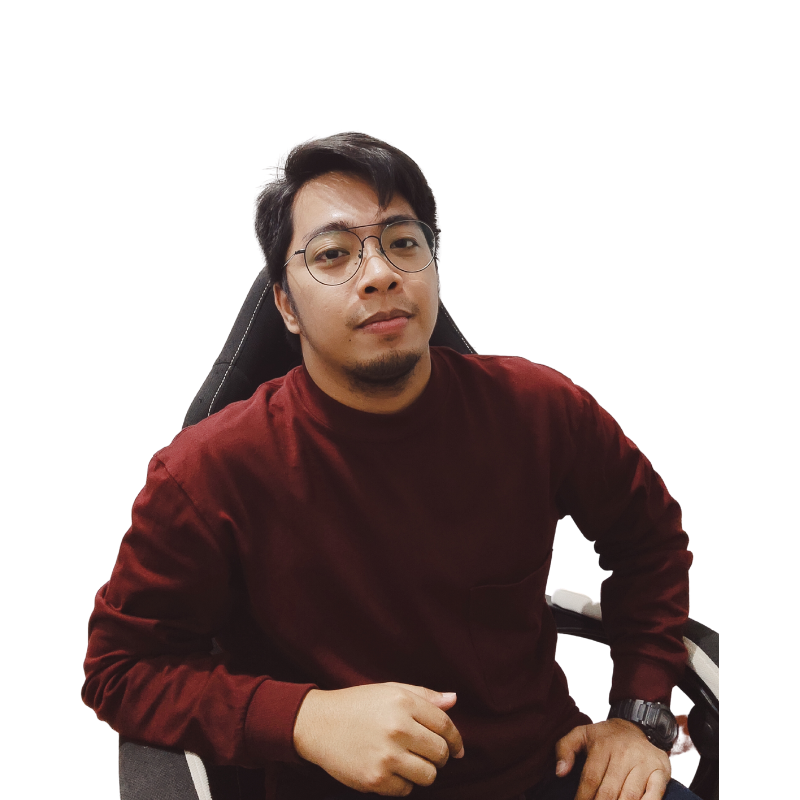
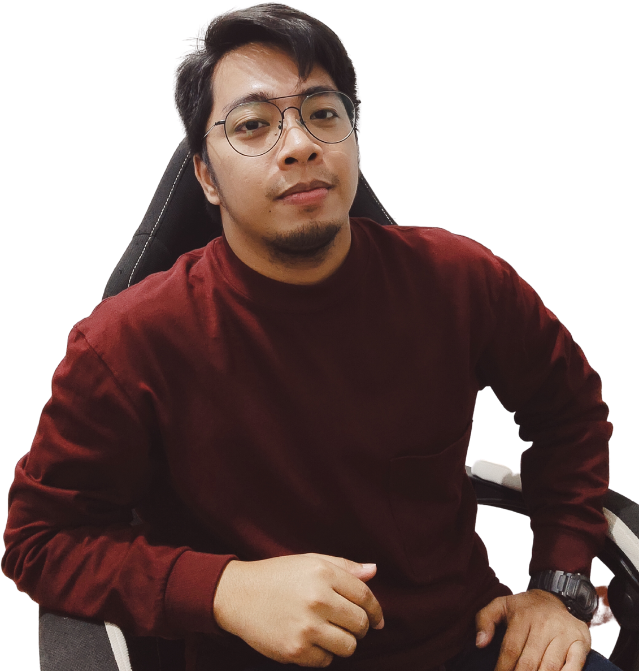
added informations

diff --git a/index.html b/index.html
@@ -11,9 +11,10 @@
 </head>
 <body>
 
+  <!-- NAVBAR -->
   <nav class="navbar navbar-expand-md">
     <div class="container-fluid nav-div">
-      <a class="navbar-brand" href="#">RALPH</a>
+      <a class="navbar-brand" href="#"><img src="assets/logo1.png"></a>
       <button class="navbar-toggler" type="button" data-bs-toggle="collapse" data-bs-target="#navbarNavDropdown" aria-controls="navbarNavDropdown" aria-expanded="false" aria-label="Toggle navigation">
         <span class="navbar-toggler-icon"></span>
       </button>
@@ -39,24 +40,86 @@
     </div>
   </nav>
 
-  <div class="container-fluid hero-div "> 
-
+  <!-- HERO -->
+  <div class="container-fluid hero-div my-0"> 
     <div class="row hero-row">
 
-      <div class="col col-hero col-12 col-sm-12 col-md-12 col-lg-6 picture-div">
+      <div class="col col-hero col-12 col-sm-12 col-md-12 col-lg-5 hero-picture-div">
+        <img src="assets/picture2.png" alt="picture1" class="img img-fluid">
+      </div>
+
+      <div class="col col-hero col-12 col-sm-12 col-md-12 col-lg-6 hero-text-div">
+        <h1>Hi, I'm Ralph!</h1>
+        <h1>Your Web Developer</h1>
+        <button>Message Me</button>
+
+      </div>
+    </div>
+  </div>
+
+  <!-- ABOUT -->
+  <div class="container-fluid about-div pt-5"> 
+    <div class="row about-row">
+      <div class="col col-hero col-12 col-sm-12 col-md-12 col-lg-5 about-text-div">
+        <h1>ABOUT ME</h1> <br>
+        <h2>Lorem ipsum dolor sit amet consectetur adipisicing elit. Eligendi consequuntur ex enim magnam similique ad totam facere quisquam rerum ullam vel
+          </h2>
+          <h2>Lorem ipsum dolor sit amet consectetur adipisicing elit. Libero, magni nisi necessitatibus quisquam id </h2>
+
+            
+      </div>
+
+      <div class="col col-hero col-12 col-sm-12 col-md-12 col-lg-6 about-picture-div px-0">
         <img src="assets/picture1.png" alt="picture1" class="img img-fluid">
       </div>
 
-      <div class="col col-hero col-12 col-sm-12 col-md-12 col-lg-6 text-div">
-        <h1>Hi I'm Ralph!</h1>
-        <h1>Your Web Developer</h1>
-        <button>Hire Me!</button>
+    </div>
+  </div>
 
+  <!-- PROJECT -->
+  <div class="container-fluid project-div py-5"> 
+    <h1>PROJECTS</h1>
+
+    <div class="row project-row">
+
+      <div class="col col-12 col-sm-12 col-md-6 col-lg-4 col-xl-3 project-col-div">
+        <div class="card project-card" >
+          <img src="assets/smoothday.jpg" class="card-img-top" alt="...">
+          <div class="card-body">
+            <h5 class="card-title">Smooth Day</h5>
+            <p class="card-text">A website for an auto detailing services. </p>
+            <a href="#" class="btn btn-primary">See Project</a>
+          </div>
+        </div>
       </div>
-  </div>
 
-    
-  </div>
+      <div class="col col-12 col-sm-12 col-md-6 col-lg-4 col-xl-3 project-col-div">
+        <div class="card project-card" >
+          <img src="assets/farhotel.jpg" class="card-img-top" alt="...">
+          <div class="card-body">
+            <h5 class="card-title">FAR Hotel</h5>
+            <p class="card-text">a website for hotel service. this website lets you book your hotel accomodation.</p>
+            <a href="#" class="btn btn-primary">See Project</a>
+          </div>
+        </div>
+      </div>
+
+      <div class="col col-12 col-sm-12 col-md-6 col-lg-4 col-xl-3 project-col-div">
+        <div class="card project-card" >
+          <img src="assets/jarliner.jpg" class="card-img-top" alt="...">
+          <div class="card-body">
+            <h5 class="card-title">JAR Liner</h5>
+            <p class="card-text">a website for bus ticketing service, this website lets you book your next disire travel online</p>
+            <a href="#" class="btn btn-primary">See Project</a>
+          </div>
+        </div>
+      </div>
+   
+     
+      
+    </div>
+  </div>  
+
 
 
 

diff --git a/styles.css b/styles.css
@@ -1,4 +1,5 @@
 @import url('https://fonts.googleapis.com/css2?family=Acme&family=Fira+Sans:wght@300;400;700&display=swap');
+
 *{
   box-sizing: border-box;
   padding: 0;
@@ -6,12 +7,14 @@
   font-family: 'Acme', sans-serif;
   font-family: 'Fira Sans', sans-serif;
   /* border: 1px solid red; */
-  background-color: var(--color1);
+  /* background-color: var(--color1); */
   color: var(--white);
 }
 
+
 :root {
-  --color1:#27374D;
+  /* --color1:#27374D; */
+  --color1:#152844;
   --color2: #526D82;
   --color3: #9DB2BF;
   --color4: #DDE6ED;
@@ -19,6 +22,12 @@
 }
 
 /* NAVBAR SECTION */
+.navbar {
+  background-color: var(--color1);
+  position: sticky;
+  top: 0;
+  z-index: 99;
+}
 
 .navbar-collapse {
   justify-content: right;
@@ -37,37 +46,41 @@
   color: var(--white);
 }
 
+.nav-div a img {
+  height: 40px;
+  padding-left: 20px;
+}
+
+.nav-item a {
+  font-size: 20px;
+}
 
 
 
 /* HERO SECTION */
 .hero-div {
   text-align: center;
-  margin-bottom: 20px;
-  padding: 3rem 1rem;
+  background-color: var(--color1);
+  height: 95vh;
 }
 
-.picture-div img {
-  height: 100%;
-  width: 100%;
+.hero-picture-div img {
+  height: 88%;
 }
 
-.text-div {
-  width: auto;
-  display: flex;
-  flex-direction: column;
-  justify-content: center;
-  align-items: center;
-  padding-bottom: 200px;
-  gap: 10px;
+.hero-text-div {
+  text-align: left;
+  align-self: center;
+  padding-bottom: 300px;
+ 
 }
 
-.text-div h1 {
+.hero-text-div h1 {
   font-family: 'Acme', sans-serif;
   font-size: clamp(1.5rem, 0.55rem + 4.75vw, 6.25rem);
 }
 
-.text-div button {
+.hero-text-div button {
   background-color: var(--color3);
   font-size: 30px;
   padding: 10px 20px;
@@ -75,9 +88,68 @@
   border: 1px solid var(--white);
 } 
 
-.text-div button:hover {
+.hero-text-div button:hover {
   background-color: var(--color2);
   border: 1px solid var(--white);
   color: var(--white);
+}
 
+
+/* ABOUT DIV */
+
+.about-div {
+  background-color: var(--color2);
+  text-align: right;
+}
+
+.about-row {
+  background-color: var(--color2);
+  justify-content: right;
+  align-items: center;
+}
+
+.about-picture-div img {
+  height: 800px;
+  justify-self: right;
+}
+
+.about-text-div {
+  text-align: left;
+ 
+}
+
+/* PROJECT DIV */
+.project-div {
+  background-color: var(--color1);
+  display: flex;
+  flex-direction: column;
+  justify-content: center;
+  align-items: center;
+}
+
+.project-div h1 {
+  text-align: center;
+  font-size: 50px;
+  font-family: 'Acme', sans-serif;
+  margin-top: 10px;
+  margin-bottom: 20px;
+}
+
+.project-row {
+  justify-content: center;
+}
+
+.project-col-div .card {
+  background-color: var(--white);
+  height: 500px;
+}
+
+.card-body h5 {
+  color: var(--color1);
+  font-size: 30px;
+}
+
+.card-body p {
+  color: var(--color1);
+  font-size: 20px;
 }
